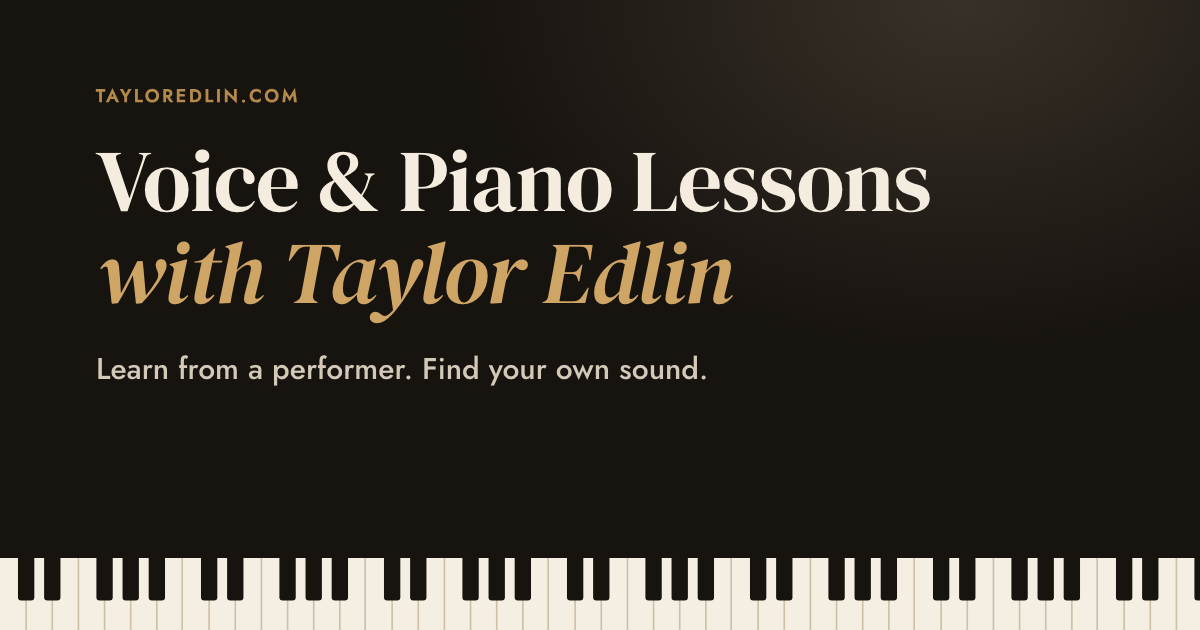
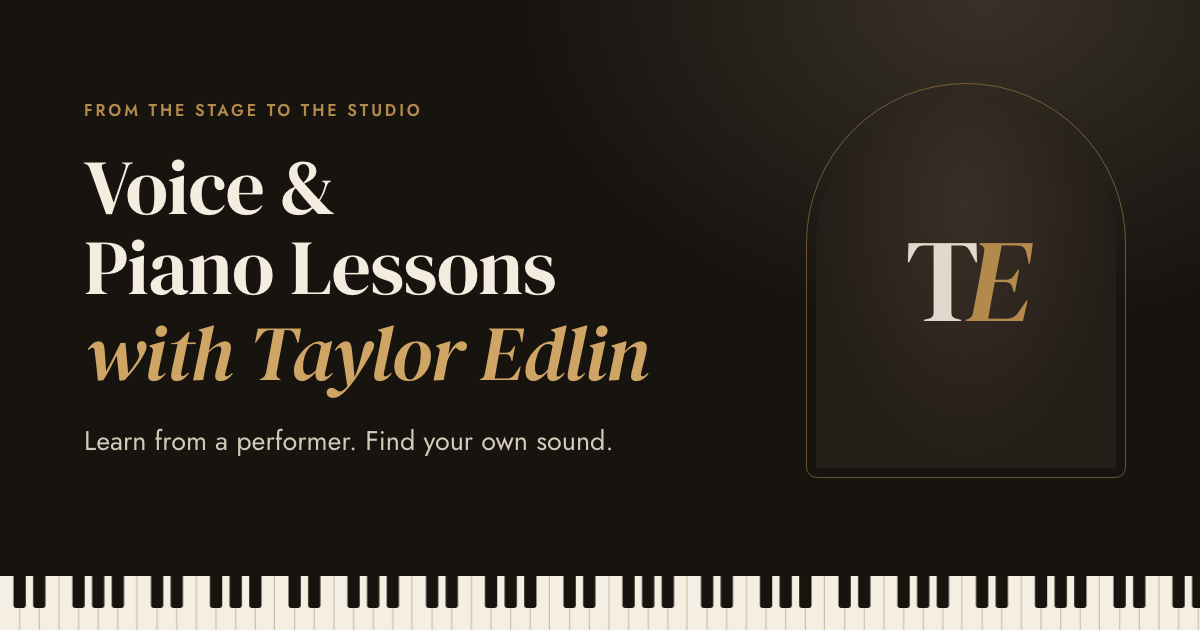
Link preview: match the hero (arch + monogram)

diff --git a/tools/og.html b/tools/og.html
@@ -1,20 +1,28 @@
 <!doctype html>
-<!-- Source for images/og.png (the link preview). Re-render with tools/render-og.sh. -->
+<!-- Source for images/og.png (the link preview, 1200x630). Re-render with tools/render-og.sh.
+     When Taylor's photo exists, swap the monogram span for <img src="../images/taylor.jpg" alt=""> and re-render. -->
 <html><head><meta charset="utf-8">
-<link rel="stylesheet" href="https://fonts.googleapis.com/css2?family=DM+Serif+Display:ital@0;1&family=Jost:wght@500&display=swap">
+<link rel="stylesheet" href="https://fonts.googleapis.com/css2?family=DM+Serif+Display:ital@0;1&family=Jost:wght@400;500;600&display=swap">
 <link rel="stylesheet" href="../styles.css">
 <style>
-  html,body{margin:0;width:1200px;height:630px;overflow:hidden}
-  .card{position:relative;width:1200px;height:630px;color:var(--on-dark);background:radial-gradient(ellipse 60% 80% at 80% 0%,rgba(255,231,190,.14),transparent 70%),var(--ink);padding:84px 96px 0;box-sizing:border-box}
-  .card .eyebrow{font-size:18px;margin-bottom:26px}
-  .card h1{font:400 88px/1.04 var(--serif)}
-  .card h1 em{display:block;color:#CFA566}
-  .card p.sub{font:400 30px/1.4 var(--sans);color:var(--on-dark-muted);margin:30px 0 0}
-  .card .keys{position:absolute;left:0;right:0;bottom:0;height:72px;background-size:183px 72px}
+  html,body{margin:0;width:1200px;height:630px;overflow:hidden;background:var(--ink)}
+  .card{position:relative;width:1200px;height:630px;box-sizing:border-box;color:var(--on-dark);
+    background:radial-gradient(ellipse 55% 75% at 82% 0%,rgba(255,231,190,.14),transparent 70%),var(--ink);
+    display:grid;grid-template-columns:1fr 300px;gap:48px;align-items:center;padding:0 84px 70px 84px}
+  .card .eyebrow{font-size:16px;letter-spacing:.18em;margin-bottom:24px}
+  .card h1{font-size:78px;line-height:1.03}
+  .card h1 em{display:block;color:#CFA566;margin-top:6px}
+  .card .sub{font:400 27px/1.4 var(--sans);color:var(--on-dark-muted);margin:28px 0 0}
+  .card .arch{max-width:none;width:300px;justify-self:end;outline-offset:9px}
+  .card .monogram{font-size:118px}
+  .card .keys{position:absolute;left:0;right:0;bottom:0;height:54px;background-size:137.5px 54px}
 </style></head>
 <body><div class="card">
-  <p class="eyebrow">tayloredlin.com</p>
-  <h1>Voice &amp; Piano Lessons <em>with Taylor Edlin</em></h1>
-  <p class="sub">Learn from a performer. Find your own sound.</p>
+  <div>
+    <p class="eyebrow">From the stage to the studio</p>
+    <h1>Voice &amp; Piano Lessons <em>with Taylor Edlin</em></h1>
+    <p class="sub">Learn from a performer. Find your own sound.</p>
+  </div>
+  <figure class="arch"><span class="monogram">T<i>E</i></span></figure>
   <div class="keys"></div>
 </div></body></html>

diff --git a/index.html b/index.html
@@ -10,7 +10,7 @@
   <meta property="og:url" content="https://tayloredlin.com/">
   <meta property="og:title" content="Voice &amp; Piano Lessons with Taylor Edlin">
   <meta property="og:description" content="Learn from a performer. Build your confidence. Find your own sound.">
-  <meta property="og:image" content="https://tayloredlin.com/images/og.png">
+  <meta property="og:image" content="https://tayloredlin.com/images/og.png?v=2">
   <meta property="og:image:width" content="1200">
   <meta property="og:image:height" content="630">
   <meta name="twitter:card" content="summary_large_image">
